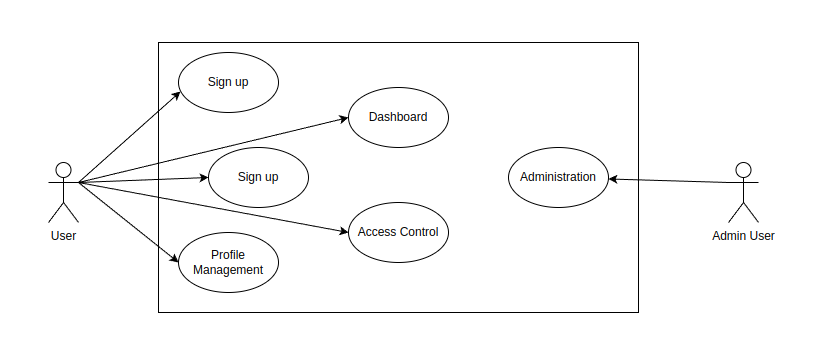
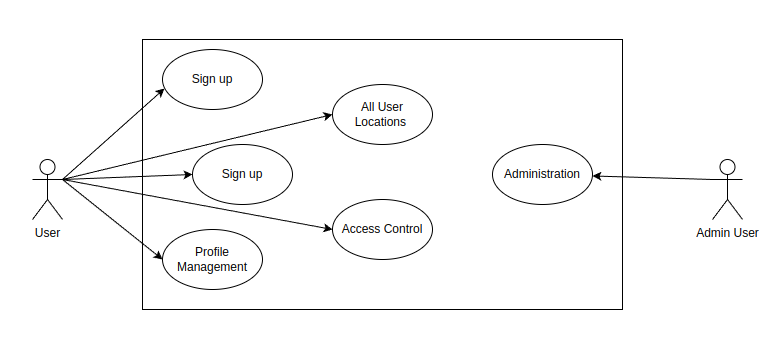
renaming dashboard into all user locations

diff --git a/README.md b/README.md
@@ -7,7 +7,7 @@ Additionally, users can update and maintain their profiles, which include thier 
 1. Sign up
 2. Sign in
 3. Profile Management
-4. Dashboard
+4. All User Locations
 5. Access Control
 
 ## Use case diagram
